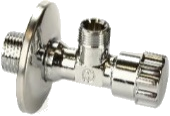
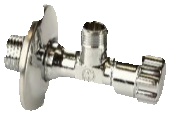
refine hero image cleanup and cover layout

Changed region(s): [[0.0, 0.0, 1.0, 0.9828]]

diff --git a/general-fittings-2026.html b/general-fittings-2026.html
@@ -500,7 +500,6 @@
        '<h1 class="reveal">' + editable("cover-title","GENERAL FITTINGS.") + '</h1>' +
        '<p class="subtitle reveal">' + editable("cover-subtitle",CONTEXT.meta.subtitle) + '</p>' +
        '<p class="meta reveal">' + editable("cover-meta",CONTEXT.meta.distributor + " · Улаанбаатар") + '</p>' +
-       '<img class="hero-image reveal" src="' + heroAssetPath("image4.jpeg") + '" alt="General Fittings product" />' +
        '<div class="hero-label reveal">PRODUCTS · 2026 / 2</div>' +
        '<div class="italy-mark reveal">ITALIAN FITTINGS / 2026</div>' +
        pageMark()

diff --git a/tools/remove-white-edge.py b/tools/remove-white-edge.py
@@ -6,6 +6,7 @@ from collections import deque
 from pathlib import Path
 
 from PIL import Image
+from PIL import ImageFilter
 
 
 def near_white(pixel, threshold, chroma):
@@ -41,11 +42,20 @@ def edge_background(image, threshold, chroma):
     return mask
 
 
-def remove_white_edge(source, target, threshold, chroma):
+def expand_mask(mask, width, height, radius):
+    if radius <= 0:
+        return mask
+    binary = Image.frombytes("L", (width, height), bytes(value * 255 for value in mask))
+    expanded = binary.filter(ImageFilter.MaxFilter(radius * 2 + 1))
+    return bytearray(1 if value else 0 for value in expanded.tobytes())
+
+
+def remove_white_edge(source, target, threshold, chroma, halo):
     image = Image.open(source).convert("RGBA")
-    mask = edge_background(image, threshold, chroma)
-    pixels = image.load()
     width, height = image.size
+    mask = edge_background(image, threshold, chroma)
+    mask = expand_mask(mask, width, height, halo)
+    pixels = image.load()
     removed = 0
     for index, is_background in enumerate(mask):
         if is_background:
@@ -64,8 +74,9 @@ def main():
     parser.add_argument("output", type=Path)
     parser.add_argument("--threshold", type=int, default=235)
     parser.add_argument("--chroma", type=int, default=30)
+    parser.add_argument("--halo", type=int, default=3, help="extra edge pixels to clear")
     args = parser.parse_args()
-    removed = remove_white_edge(args.input, args.output, args.threshold, args.chroma)
+    removed = remove_white_edge(args.input, args.output, args.threshold, args.chroma, args.halo)
     print(f"{args.input} -> {args.output} ({removed} edge pixels removed)")
 
 
